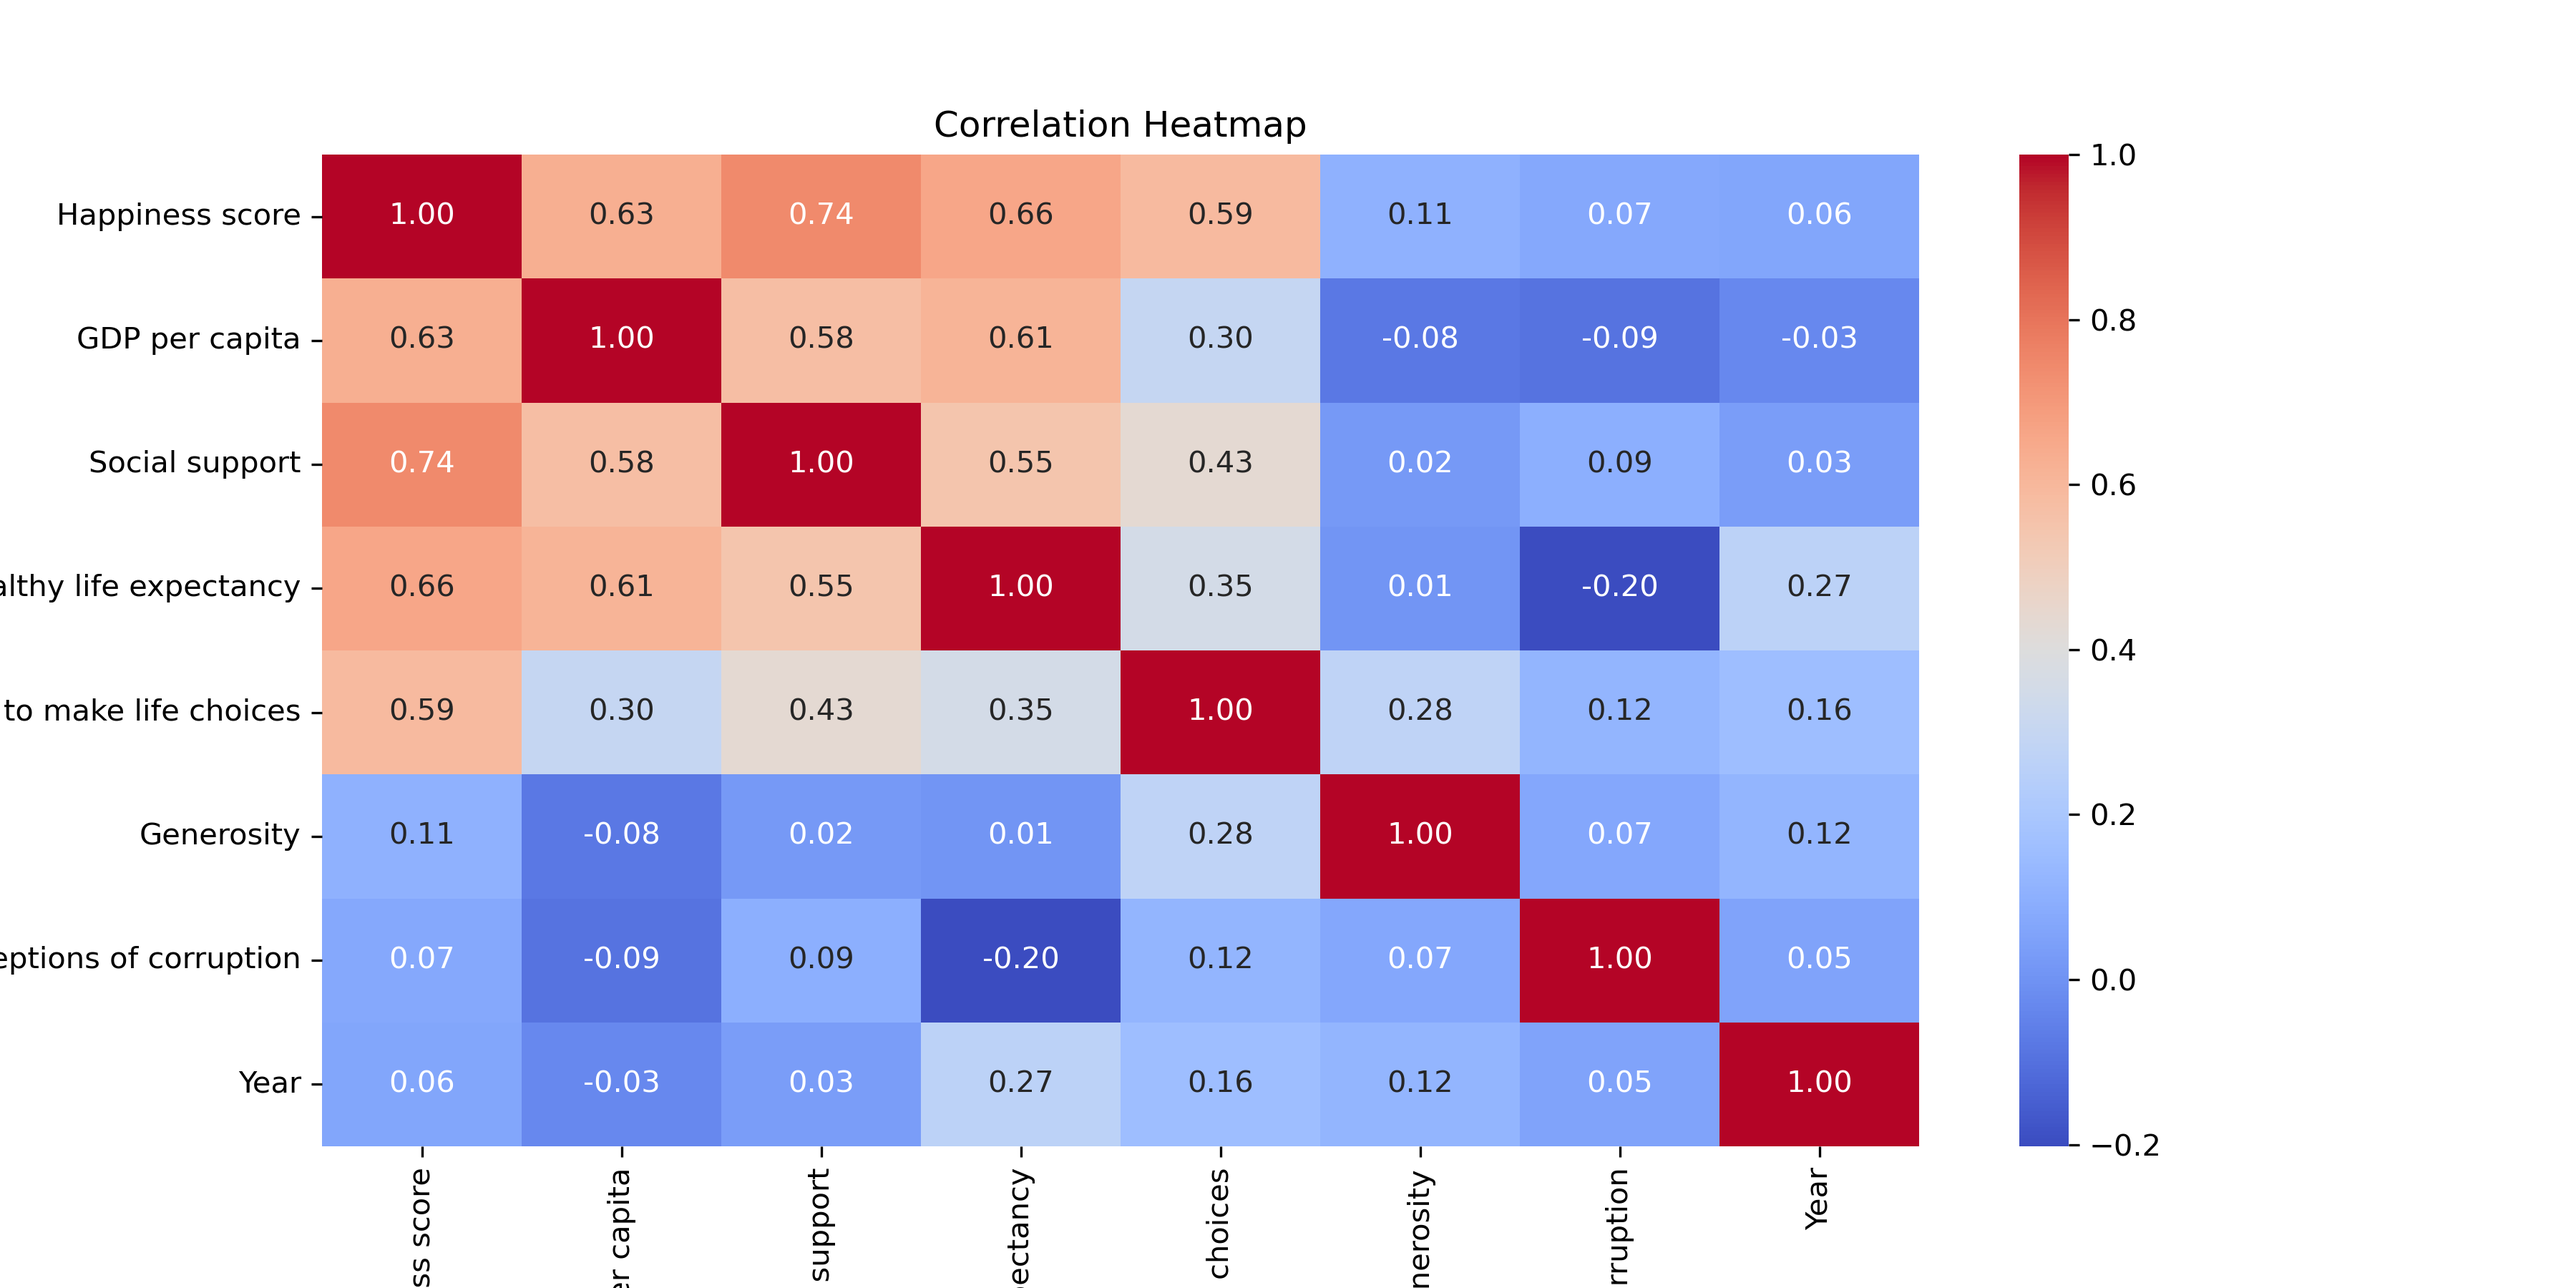
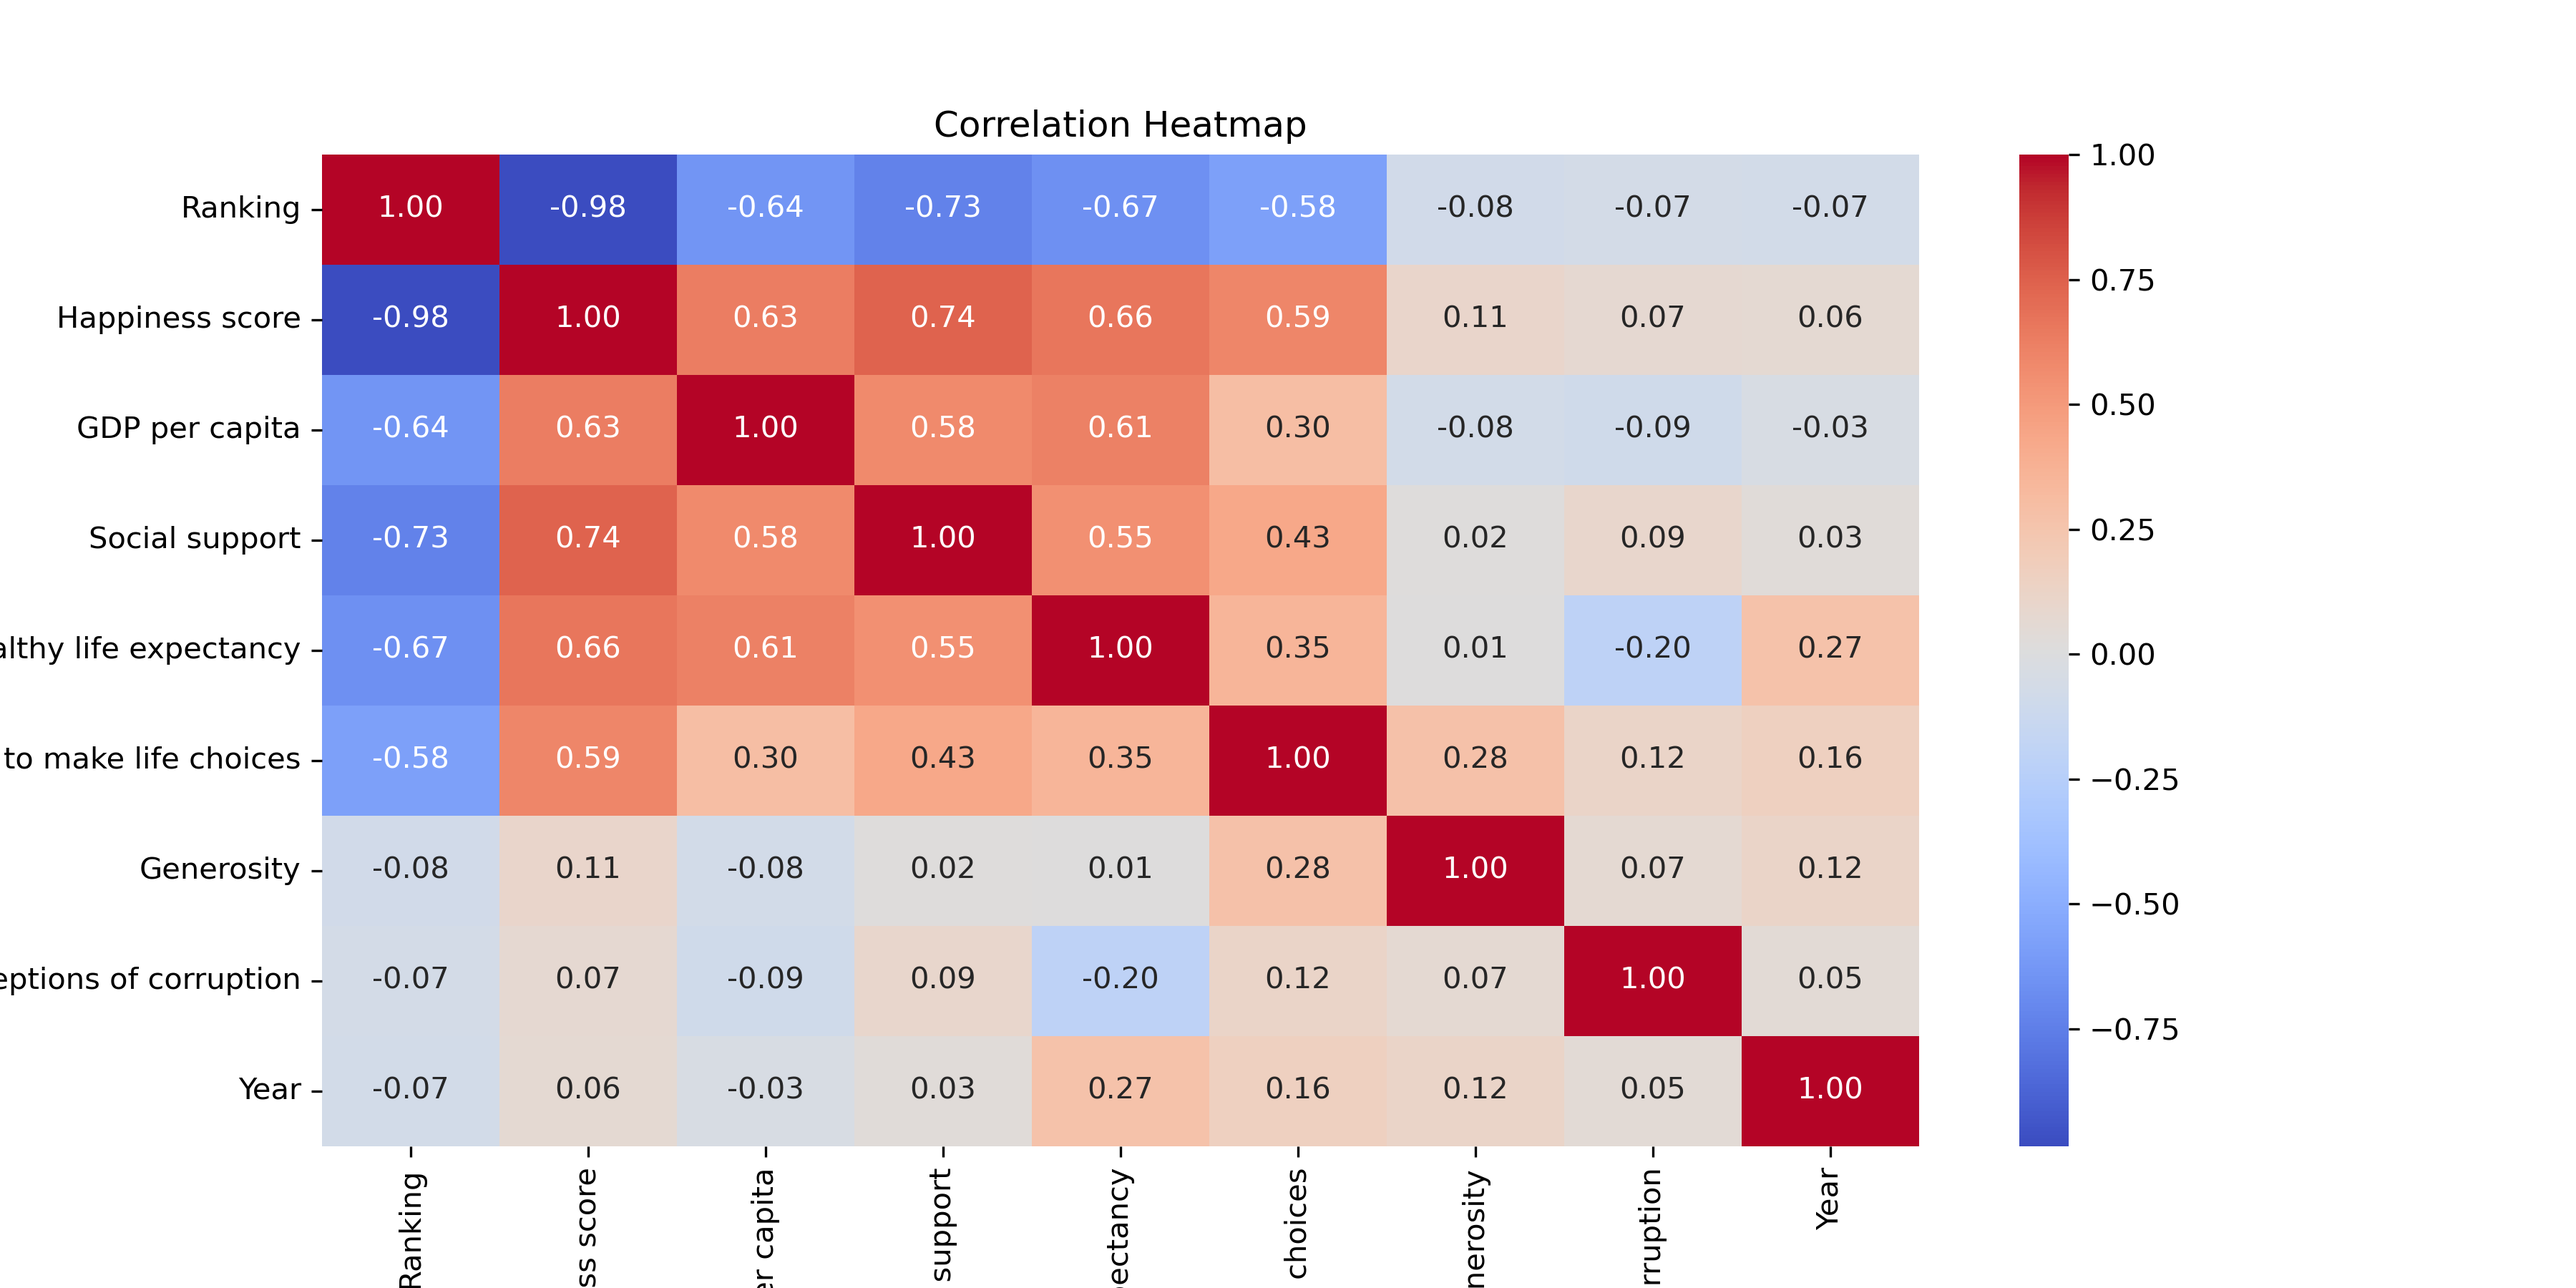
More tweaks

diff --git a/assignments_01/project_01.py b/assignments_01/project_01.py
@@ -29,7 +29,7 @@ paths = [
         ]
 
 
-@task(retries=3,retry_delay_seconds=2)
+#@task(retries=3,retry_delay_seconds=2)
 def happiness_data():
     final_dataframe = []          
 
@@ -57,7 +57,7 @@ def happiness_data():
     return happiness_merged
 
 # Task 2
-@task(retries=3,retry_delay_seconds=2)
+#@task(retries=3,retry_delay_seconds=2)
 def happy_stats(df):
     # A little cleanup
     df["Happiness score"] = df["Happiness score"].astype(float).round(2)
@@ -68,17 +68,17 @@ def happy_stats(df):
     happy_std = happy_score.std()
     happy_mean_grouped = df.groupby(["Year","Regional indicator"])["Happiness score"].mean()
     
-    logger = get_run_logger() 
+    #logger =get_run_logger() 
 
-    logger.info(f"Mean:\n {happy_mean}")
-    logger.info(f"\nMedian:\n {happy_median}")
-    logger.info(f"\nStandard deviation:\n {happy_std}")
-    logger.info(f"\nGrouped mean:\n {happy_mean_grouped}")
+    print(f"Mean:\n {happy_mean}")
+    print(f"\nMedian:\n {happy_median}")
+    print(f"\nStandard deviation:\n {happy_std}")
+    print(f"\nGrouped mean:\n {happy_mean_grouped}")
 
 # Task 3
-@task(retries=3,retry_delay_seconds=2)
+#@task(retries=3,retry_delay_seconds=2)
 def visuals(df):
-    logger = get_run_logger()
+    #logger =get_run_logger()
     happy = df["Happiness score"]
     years = df["Year"]
     
@@ -98,14 +98,14 @@ def visuals(df):
     
     plt.savefig(OUTPUT_DIR/"happiness_histogram.png",dpi=300)
     plt.show()
-    logger.info("Saved histogram.")
+    print("Saved histogram.")
     
     # Boxplot
-    sns.boxplot(x = years, y = happy,data=df)
+    sns.boxplot(data=df, x="Year", y ="Happiness score")
     plt.title("Happiness Distribution by Years")
     plt.savefig(OUTPUT_DIR/"happiness_by_year.png",dpi=300)
     plt.show()
-    logger.info("Saved boxplot.")
+    print("Saved boxplot.")
     
     # Scatter Plot
     fig, ax = plt.subplots()
@@ -116,30 +116,31 @@ def visuals(df):
     
     plt.savefig(OUTPUT_DIR/"gdp_vs_happiness.png",dpi=300)
     plt.show()
-    logger.info("Saved scatter plot.")
+    print("Saved scatter plot.")
     
     # Heatmap
-    heat_corr = heat_cols.corr(numeric_only=True)
+    numeric = df.select_dtypes(include="number")
+    heat_corr = numeric.corr(numeric_only=True)
     plt.figure(figsize=(12,6))
     sns.heatmap(heat_corr,annot=True,cmap="coolwarm",fmt=".2f")
     
     plt.title("Correlation Heatmap")
     plt.savefig(OUTPUT_DIR/"correlation_heatmap.png",dpi=300)
     plt.show()
-    logger.info("Saved heatmap.")
+    print("Saved heatmap.")
 
 # Task 4
-@task(retries=3,retry_delay_seconds=2)
+#@task(retries=3,retry_delay_seconds=2)
 def hypothesis(df):
     year1 = df[df['Year'] == 2019]["Happiness score"]
     year2 = df[df['Year'] == 2020]["Happiness score"]
     year_hypo = ttest_ind(year1,year2)
-    logger = get_run_logger() 
+    #logger =get_run_logger() 
 
-    logger.info(f"Statistic: {year_hypo.statistic}\n")
-    logger.info(f"Pvalue: {year_hypo.pvalue}\n")
-    logger.info(f"Mean 2019: {year1.mean()}\n")
-    logger.info(f"Mean 2020: {year2.mean()}")
+    print(f"Statistic: {year_hypo.statistic}\n")
+    print(f"Pvalue: {year_hypo.pvalue}\n")
+    print(f"Mean 2019: {year1.mean()}\n")
+    print(f"Mean 2020: {year2.mean()}")
     
     #Results:
     # The p-value is greater than or equal to 0.05, so the difference in
@@ -152,89 +153,103 @@ def hypothesis(df):
     country2 = df[df['Country'] == "United States"]["Happiness score"]
     country_hypo = ttest_ind(country1,country2)
     
-    logger.info(f"Statistic: {country_hypo.statistic}\n")
-    logger.info(f"Pvalue: {country_hypo.pvalue}\n")
-    logger.info(f"Mean Switzerland: {country1.mean()}\n")
-    logger.info(f"Mean United States: {country2.mean()}")
+    print(f"Statistic: {country_hypo.statistic}\n")
+    print(f"Pvalue: {country_hypo.pvalue}\n")
+    print(f"Mean Switzerland: {country1.mean()}\n")
+    print(f"Mean United States: {country2.mean()}")
     
     if country_hypo.pvalue < 0.05:
-        logger.info(
+        print(
             "The average happiness scores for Switzerland and the United States are significantly different."
         )
     else:
-        logger.info(
+        print(
             "There is no statistically significant difference between Switzerland and the United States."
         )
 
 # Task 5
-@task(retries=3,retry_delay_seconds=2)
+#@task(retries=3,retry_delay_seconds=2)
 def pearson_happiness(df):
     
     happy = df["Happiness score"]
-    year = df["Year"]
     gdp = df["GDP per capita"]
     social_support = df["Social support"] 
     freedom = df["Freedom to make life choices"]    
     corruption = df["Perceptions of corruption"]
     generosity = df["Generosity"]
     
-    logger = get_run_logger() 
-    logger.info(df[["Year", "Happiness score"]].dtypes)
+    #logger =get_run_logger() 
+    print(df[["Year", "Happiness score"]].dtypes)
     
-    pearson1 = pearsonr(year,happy)
-    pearson2 = pearsonr(gdp,happy)
-    pearson3 = pearsonr(social_support,happy)
+    pearson1 = pearsonr(gdp,happy)
+    pearson2 = pearsonr(social_support,happy)
     
     # Make sure bad values are dropped and both columns are the same length
     temp = df[["Healthy life expectancy", "Happiness score"]].dropna()
-    pearson4 = pearsonr(temp["Healthy life expectancy"],temp["Happiness score"])
+    pearson3 = pearsonr(temp["Healthy life expectancy"],temp["Happiness score"])
     
-    pearson5 = pearsonr(freedom,happy)
-    pearson6 = pearsonr(corruption,happy)
-    pearson7 = pearsonr(generosity,happy)
+    pearson4 = pearsonr(freedom,happy)
+    pearson5 = pearsonr(corruption,happy)
+    pearson6 = pearsonr(generosity,happy)
     
     adjusted_alpha = 0.05/7
     #List of results
     correlations = [
-        ("Year", pearson1),
-        ("GDP per capita", pearson2),
-        ("Social support", pearson3),
-        ("Healthy life expectancy", pearson4),
-        ("Freedom to make life choices", pearson5),
-        ("Perceptions of corruption", pearson6),
-        ("Generosity", pearson7),
+        ("GDP per capita", pearson1),
+        ("Social support", pearson2),
+        ("Healthy life expectancy", pearson3),
+        ("Freedom to make life choices", pearson4),
+        ("Perceptions of corruption", pearson5),
+        ("Generosity", pearson6),
     ]
     
     # Loop over correlation name & result
     for name, result in correlations:
-        logger.info(f"\n{name}")
-        logger.info(f"Correlation (r): {result.statistic:.3f}")
-        logger.info(f"P-value: {result.pvalue:.6f}")
-        logger.info(f"Adjusted alpha: {adjusted_alpha}")
+        print(f"\n{name}")
+        print(f"Correlation (r): {result.statistic:.3f}")
+        print(f"P-value: {result.pvalue:.6f}")
+        print(f"Adjusted alpha: {adjusted_alpha}")
         
         if result.pvalue < adjusted_alpha:
-            logger.info("Significant after Bonferroni correlation: Yes\n")
+            print("Significant after Bonferroni correlation: Yes\n")
         else:
-            logger.info("Significant after Bonferroni correlation: No\n")
+            print("Significant after Bonferroni correlation: No\n")
 
 # Task 5
-@task(retries=3,retry_delay_seconds=2)
+#@task(retries=3,retry_delay_seconds=2)
 def summary_report(df):
-   logger = get_run_logger() 
-   logger.info("Merged dataset\n")
-   logger.info(f"Number of countries: {df['Country'].nunique()}")
-   logger.info(f"Number of years: {df['Year'].nunique()}")
+   #logger =get_run_logger() 
+   print("Merged dataset\n")
+   print(f"Number of countries: {df['Country'].nunique()}")
+   print(f"Number of years: {df['Year'].nunique()}")
    
    regional_means = (
        df.groupby("Regional indicator")["Happiness score"].mean().sort_values(ascending=False)
    )
-   logger.info(f"\nTop 3 regions by mean happiness score: {regional_means.head(3)}")
-   logger.info(f"\nBottom 3 regions by mean happiness score:{regional_means.tail(3)}")
+   print(f"\nTop 3 regions by mean happiness:")
+   for region, score in regional_means.head(3).items():
+       print(f"{region}: {score:.3f}")
+       
+   print(f"\nBottom 3 regions by mean happiness:")
+   for region, score in regional_means.tail(3).items():
+       print(f"{region}: {score:.3f}")
+       
+   mean_by_year = (
+       df.groupby("Year")["Happiness score"].mean().sort_values(ascending=False)
+   )
    
-   logger.info("\nAverage happiness scores changed between 2019 and 2020, suggesting that people's reported happiness was different after the start of the pandemic.")
-   logger.info("\nSocial support had the strongest relationship with happiness score, even after using a stricter significance test.")
+   print(
+    f"Mean happiness was {mean_by_year[2019]:.2f} in 2019 and "
+    f"{mean_by_year[2020]:.2f} in 2020. "
+    "Because the p-value (0.595) is greater than 0.05, the observed difference "
+    "is not statistically significant."
+    )
+  
+   print(
+    "Social support showed the strongest positive correlation with happiness score and remained statistically significant after applying the Bonferroni correction."
+    )
 
-@flow(name="pipeline_flow")
+#@flow(name="pipeline_flow")
 def happiness_pipeline():
     df = happiness_data()
 
